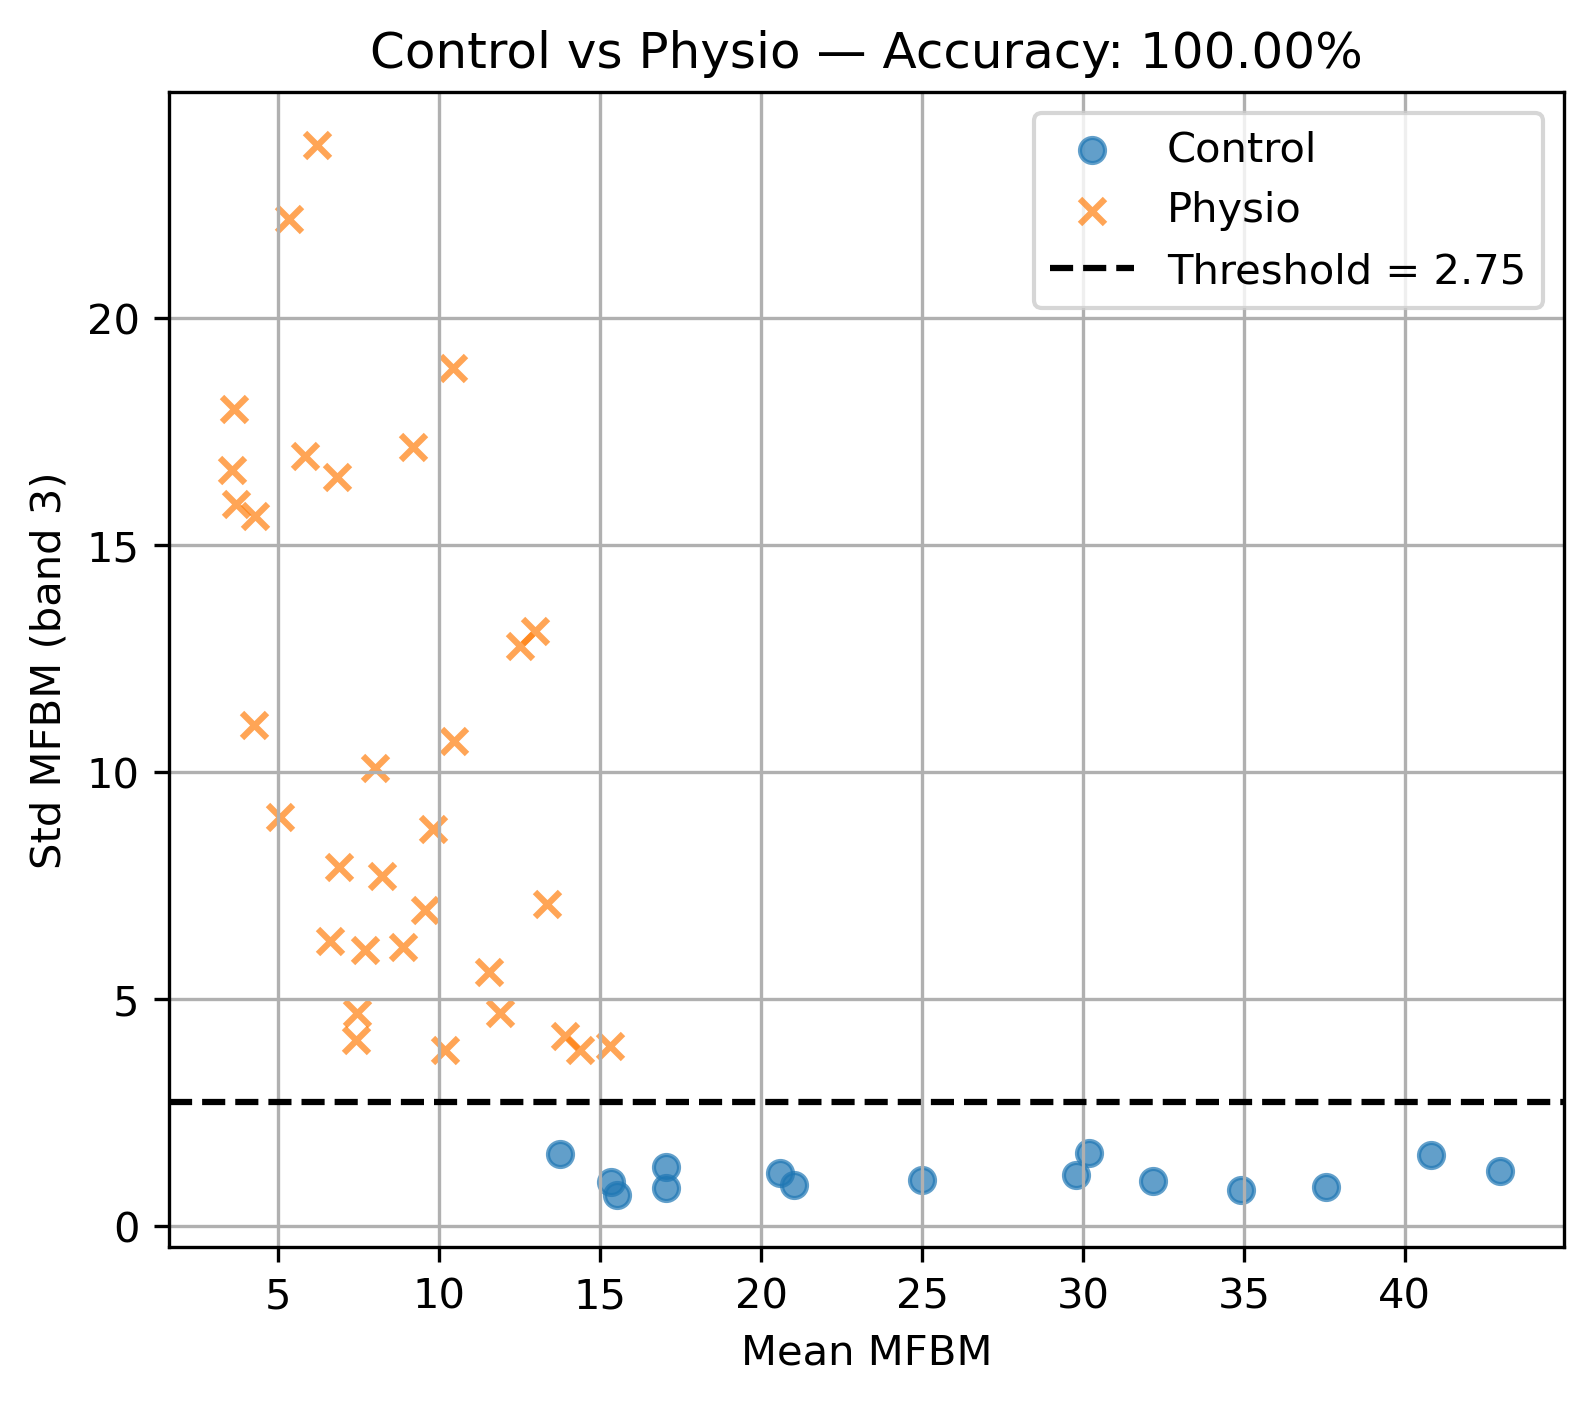
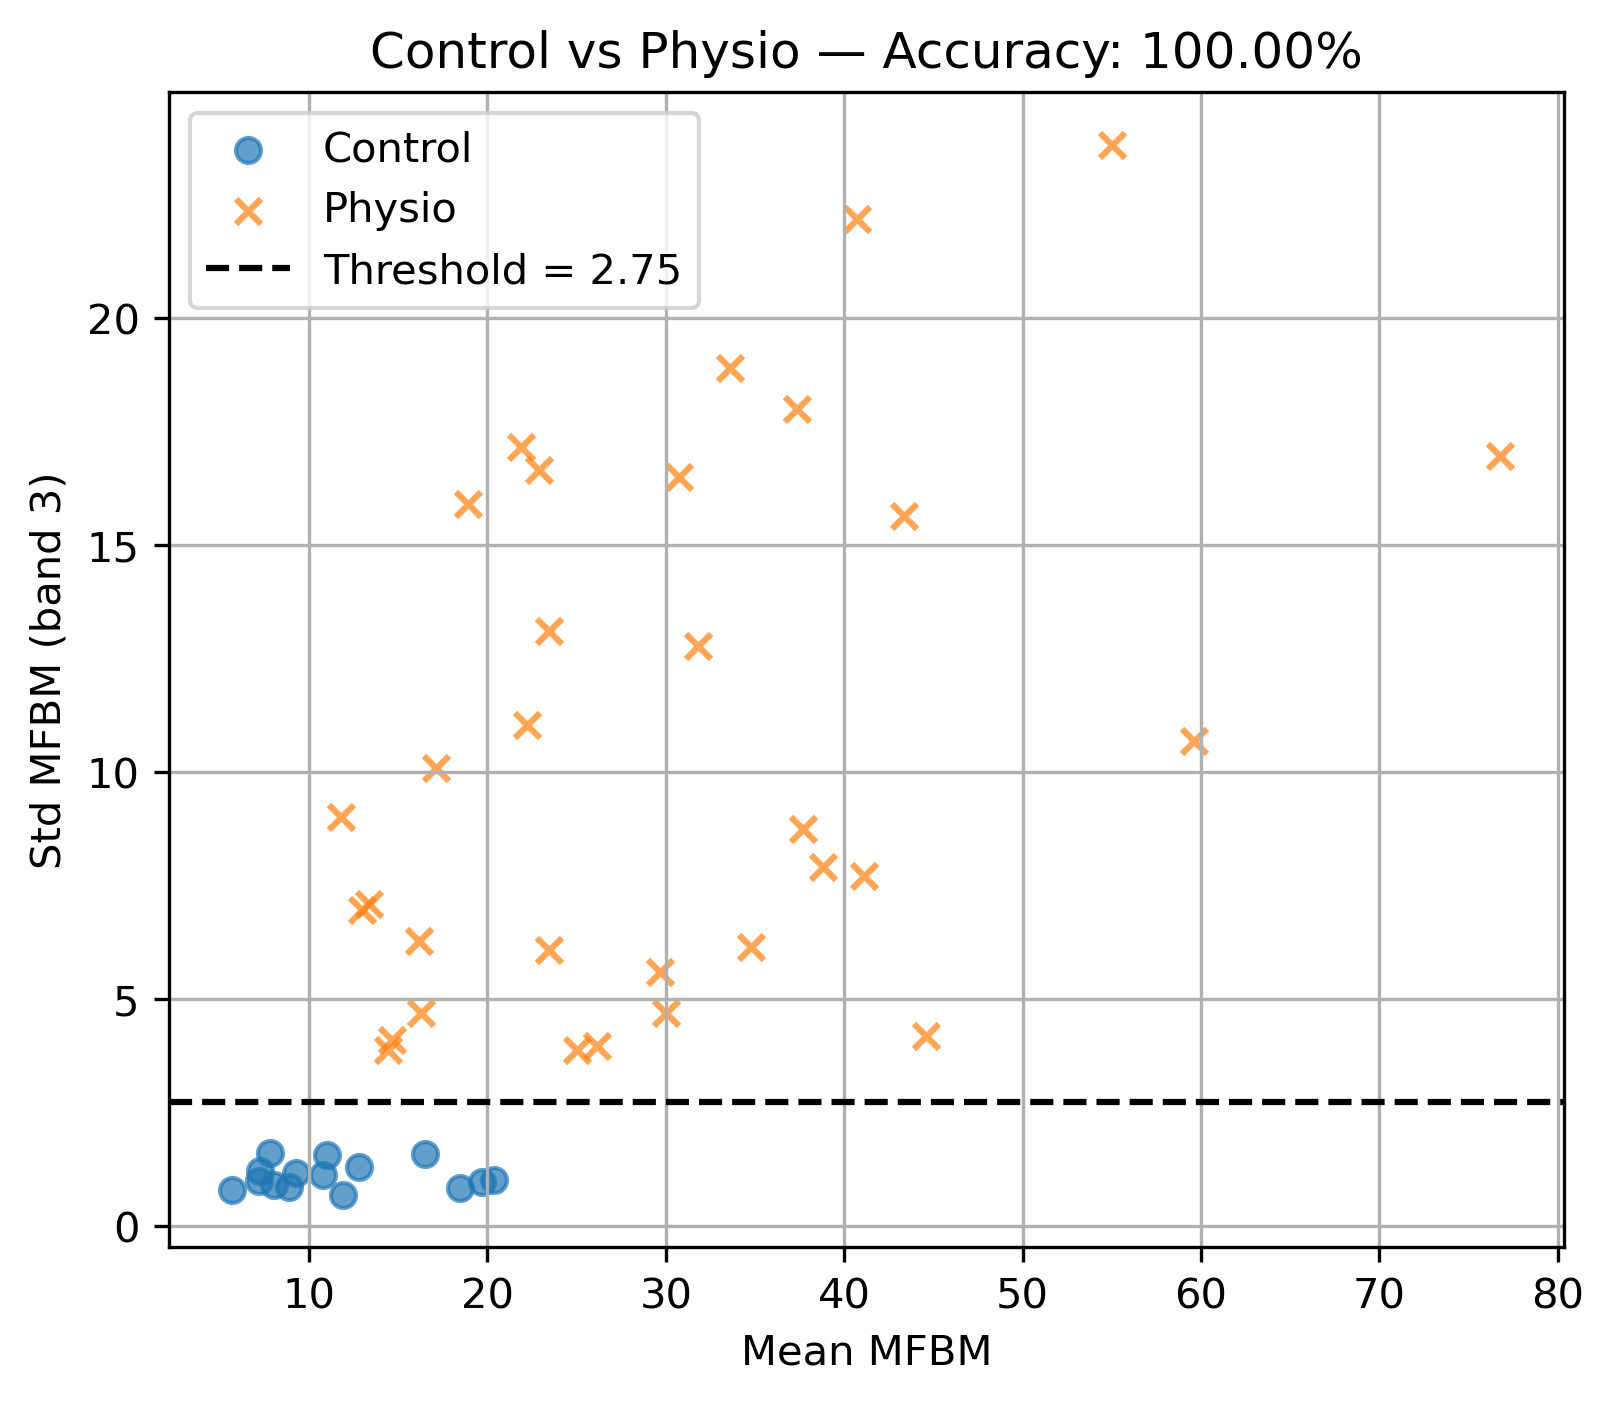
refactor: restructure dataset processing pipeline

diff --git a/tests/test_preprocessing.py b/tests/test_preprocessing.py
@@ -20,8 +20,7 @@ def test_preprocessing_peak_normalization():
         normalize="peak",
         dc_remove=False,
         trim_signal=False,
-        equal_duration=False,
-        pre_emphasis=False
+        equal_duration=False
     )
 
     signal = df_out["signal"].iloc[0]
@@ -42,44 +41,14 @@ def test_preprocessing_dc_removal():
         normalize=None,
         dc_remove=True,
         trim_signal=False,
-        equal_duration=False,
-        pre_emphasis=False
+        equal_duration=False
     )
 
     signal = df_out["signal"].iloc[0]
 
     assert np.isclose(np.mean(signal), 0.0)
 
-
-def test_preprocessing_pre_emphasis():
-
-    signal = np.array([1.0, 2.0, 3.0])
-
-    df = pd.DataFrame({
-        "signal": [signal]
-    })
-
-    df_out = preprocessing(
-        df,
-        normalize=None,
-        dc_remove=False,
-        trim_signal=False,
-        equal_duration=False,
-        pre_emphasis=True,
-        pre_emphasis_coef=0.97
-    )
-
-    expected = np.array([
-        1.0,
-        2.0 - 0.97 * 1.0,
-        3.0 - 0.97 * 2.0
-    ])
-
-    np.testing.assert_allclose(
-        df_out["signal"].iloc[0],
-        expected
-    )
-    
+   
     
 def test_preprocessing_empty_signal_handling():
     

diff --git a/src/analysis/find_most_discriminative_bands.py b/src/analysis/find_most_discriminative_bands.py
@@ -6,6 +6,35 @@ from typing import Dict, List
 
 logger = logging.getLogger(__name__)
 
+
+def _discriminative_bands_to_config_format(results: List[dict]) -> dict:
+    """
+    Convert find_most_discriminative_bands() output into the same 
+    nested-dict format previously used in config.yaml's 
+    discriminative_bands section, keyed by 'class1_vs_class2'.
+
+    Parameters
+    ----------
+    results : list of dict
+        Output of find_most_discriminative_bands.
+
+    Returns
+    -------
+    dict
+        Mapping like {'control_vs_physio': {'mean_band': ..., 'std_band': ...}, ...}
+    """
+    db = {}
+    for r in results:
+        key = r['pair'].replace(' vs ', '_vs_')
+        db[key] = {
+            'mean_band': r['best_band_mean'],
+            'std_band': r['best_band_std']
+        }
+    return db
+    
+    
+    
+
 def find_most_discriminative_bands(
     mean_dict: Dict[str, np.ndarray],
     std_dict: Dict[str, np.ndarray]
@@ -51,4 +80,4 @@ def find_most_discriminative_bands(
     for r in results:
         logger.info(f"{r['pair']}: Mean -> band {r['best_band_mean']+1}, Std -> band {r['best_band_std']+1}")
 
-    return results
+    return _discriminative_bands_to_config_format(results)

diff --git a/src/data/preprocessing.py b/src/data/preprocessing.py
@@ -97,8 +97,6 @@ def preprocessing(
     dc_remove: bool = False,
     trim_signal: bool = False,
     equal_duration: bool = False,
-    pre_emphasis: bool = False,
-    pre_emphasis_coef: float = 0.97,
     WS_ms: int = 15,
     k1: float = 1e-3,
     k2_ratio: int = 10
@@ -125,12 +123,6 @@ def preprocessing(
 
     equal_duration : bool
         Crop all signals to the shortest signal.
-
-    pre_emphasis : bool
-        Apply pre-emphasis filter.
-
-    pre_emphasis_coef : float
-        Pre-emphasis coefficient.
         
     WS_ms : int, optional
         Frame size in milliseconds for energy-based trimming, by default 15.
@@ -205,25 +197,6 @@ def preprocessing(
         df["signal"] = df["signal"].apply(
             lambda x: x[:min_length]
         )
-
-
-    # -----------------------------
-    # 4. Pre-emphasis
-    # -----------------------------
-    if pre_emphasis:
-
-        if any(len(sig) < 2 for sig in df["signal"]):
-            raise ValueError(
-                "All signals must contain at least 2 samples "
-                "when pre_emphasis=True."
-            )
-
-        df["signal"] = df["signal"].apply(
-            lambda x: np.append(
-                x[0],
-                x[1:] - pre_emphasis_coef * x[:-1]
-            )
-        )   
     
     # -----------------------------
     # 5. Normalization
@@ -249,7 +222,6 @@ def preprocessing(
         f"(dc_remove={dc_remove}, "
         f"trim_signal={trim_signal}, "
         f"equal_duration={equal_duration}, "
-        f"pre_emphasis={pre_emphasis}, "
         f"normalize={normalize})"
 )
 

diff --git a/main.py b/main.py
@@ -96,11 +96,10 @@ def main():
         save_path=str(figures_dir / "02_mean_std_per_class.png")
     )
 
-    # --- 5. Identify discriminative bands (informational, logged only)
-    find_most_discriminative_bands(mean_dict, std_dict)
+    # --- 5. Identify discriminative bands
+    db = find_most_discriminative_bands(mean_dict, std_dict)
 
     # --- 6. Run the three pairwise classification tasks
-    db = config["discriminative_bands"]
     logger.info("Running classification tasks...")
 
     cm_12, f1_12, acc_12, t_opt_12 = run_classification_task(
@@ -120,11 +119,11 @@ def main():
     )
 
     cm_23, f1_23, acc_23, t_opt_23 = run_classification_task(
-        df, label_map={'physio': 0, 'neuro': 1},
-        mean_band=db['physio_vs_neuro']['mean_band'],
-        std_band=db['physio_vs_neuro']['std_band'],
-        class_names=('Physio', 'Neuro'),
-        figures_dir=figures_dir, fig_prefix="03_physio_vs_neuro"
+        df, label_map={'neuro': 0, 'physio': 1},
+        mean_band=db['neuro_vs_physio']['mean_band'],
+        std_band=db['neuro_vs_physio']['std_band'],
+        class_names=('Neuro', 'Physio'),
+        figures_dir=figures_dir, fig_prefix="03_neuro_vs_physio"
     )
 
     # --- 7. Save metrics and confusion matrices
@@ -132,12 +131,12 @@ def main():
     results = {
         'control_vs_physio': (cm_12, f1_12, acc_12),
         'control_vs_neuro':  (cm_13, f1_13, acc_13),
-        'physio_vs_neuro':   (cm_23, f1_23, acc_23)
+        'neuro_vs_physio':   (cm_23, f1_23, acc_23)
     }
     class_names_dict = {
         'control_vs_physio': ('Control', 'Physio'),
         'control_vs_neuro':  ('Control', 'Neuro'),
-        'physio_vs_neuro':   ('Physio', 'Neuro')
+        'neuro_vs_physio':   ('Neuro', 'Physio')
     }
 
     save_metrics_csv(results, output_path=str(metrics_dir / "metrics.csv"))

diff --git a/README.md b/README.md
@@ -126,20 +126,41 @@ is a consistent marker of laryngeal pathology**, regardless of its origin (physi
 4. **Band selection:** For each pair of classes, the most discriminative band is identified by comparing class means.
 5. **Classification:** A decision threshold is applied to the selected band, optimised for F1-Score.
 
-### Note on terminology
+### Notes on implementation details and result discrepancies
 
-The published article refers to the extracted features as "band energies". The implementation uses **filterbank magnitudes** (not energies). 
-This discrepancy reflects an evolution of the codebase during the research, and the results reported in the paper were obtained using magnitudes, as implemented here.
+#### Note on terminology
 
-### Note on filterbank representation and bands definition
+The published article refers to the extracted features as "band energies". The implementation uses **filterbank magnitudes** (not energies).
+
+This discrepancy reflects an evolution of the codebase during the research process. The results reported in the paper were obtained using magnitudes, as implemented in this repository.
+
+#### Note on filterbank representation and band definition
 
 The published article includes a filterbank representation with an **incorrect definition**, assuming a 20% overlap between adjacent filters. The band limits reported in the paper were derived from this incorrect representation.
 
-However, both the original implementation used to obtain the results and the implementation provided in this repository use a Mel filterbank with 50% overlap between filters. Therefore, **the results themselves are based on the correct filterbank configuration**.
+However, both the original implementation used to obtain the reported results and the implementation provided in this repository use a Mel filterbank with **50% overlap** between adjacent filters. Therefore, **the reported results are based on the correct filterbank configuration**.
 
-This discrepancy originates from the use of an incorrect illustrative filterbank when preparing the article, which led to inconsistencies in the reported band definitions, while the underlying computations remained correct.
+This discrepancy originates from the use of an incorrect illustrative filterbank during the preparation of the article, which introduced inconsistencies in the reported band definitions while leaving the underlying computations unchanged.
 
----
+#### Note on discriminative band selection (Control vs Physio)
+
+For the Control vs Physio comparison, the original article reported band 8 as the most discriminative mean-MFBM feature.
+
+In the current implementation, band 3 is identified as the most discriminative band for the same comparison. This difference is likely related to small implementation details in the signal processing pipeline, such as numerical precision, interpolation, normalization, or frame handling.
+
+Importantly, the discriminability scores of bands 3 and 8 are very close, suggesting that both bands capture a similar underlying discriminatory pattern.
+
+For consistency with the results obtained in the current implementation, the discriminative bands identified by this analysis are used in the subsequent experiments.
+
+#### Note on F1-score computation (Neuro vs Physio)
+
+A discrepancy is observed between the F1-score reported in the article and the value obtained in the current implementation for the Neuro vs Physio classification task.
+
+This difference is not related to changes in the classifier or feature extraction process, but rather to the definition of the positive class used for the calculation of precision, recall, and F1-score.
+
+The current implementation follows the default alphabetical ordering of class labels, resulting in a different class being considered the positive class compared with the original evaluation. Since these metrics are computed with respect to the positive class, changing the label assignment can affect the reported values even when the underlying predictions remain unchanged.
+
+As both Neuro and Physio correspond to pathological voice conditions, this difference does not affect the interpretation of the classification task. However, it influences the reported F1-score value, explaining the observed discrepancy.
 
 ## Usage
 